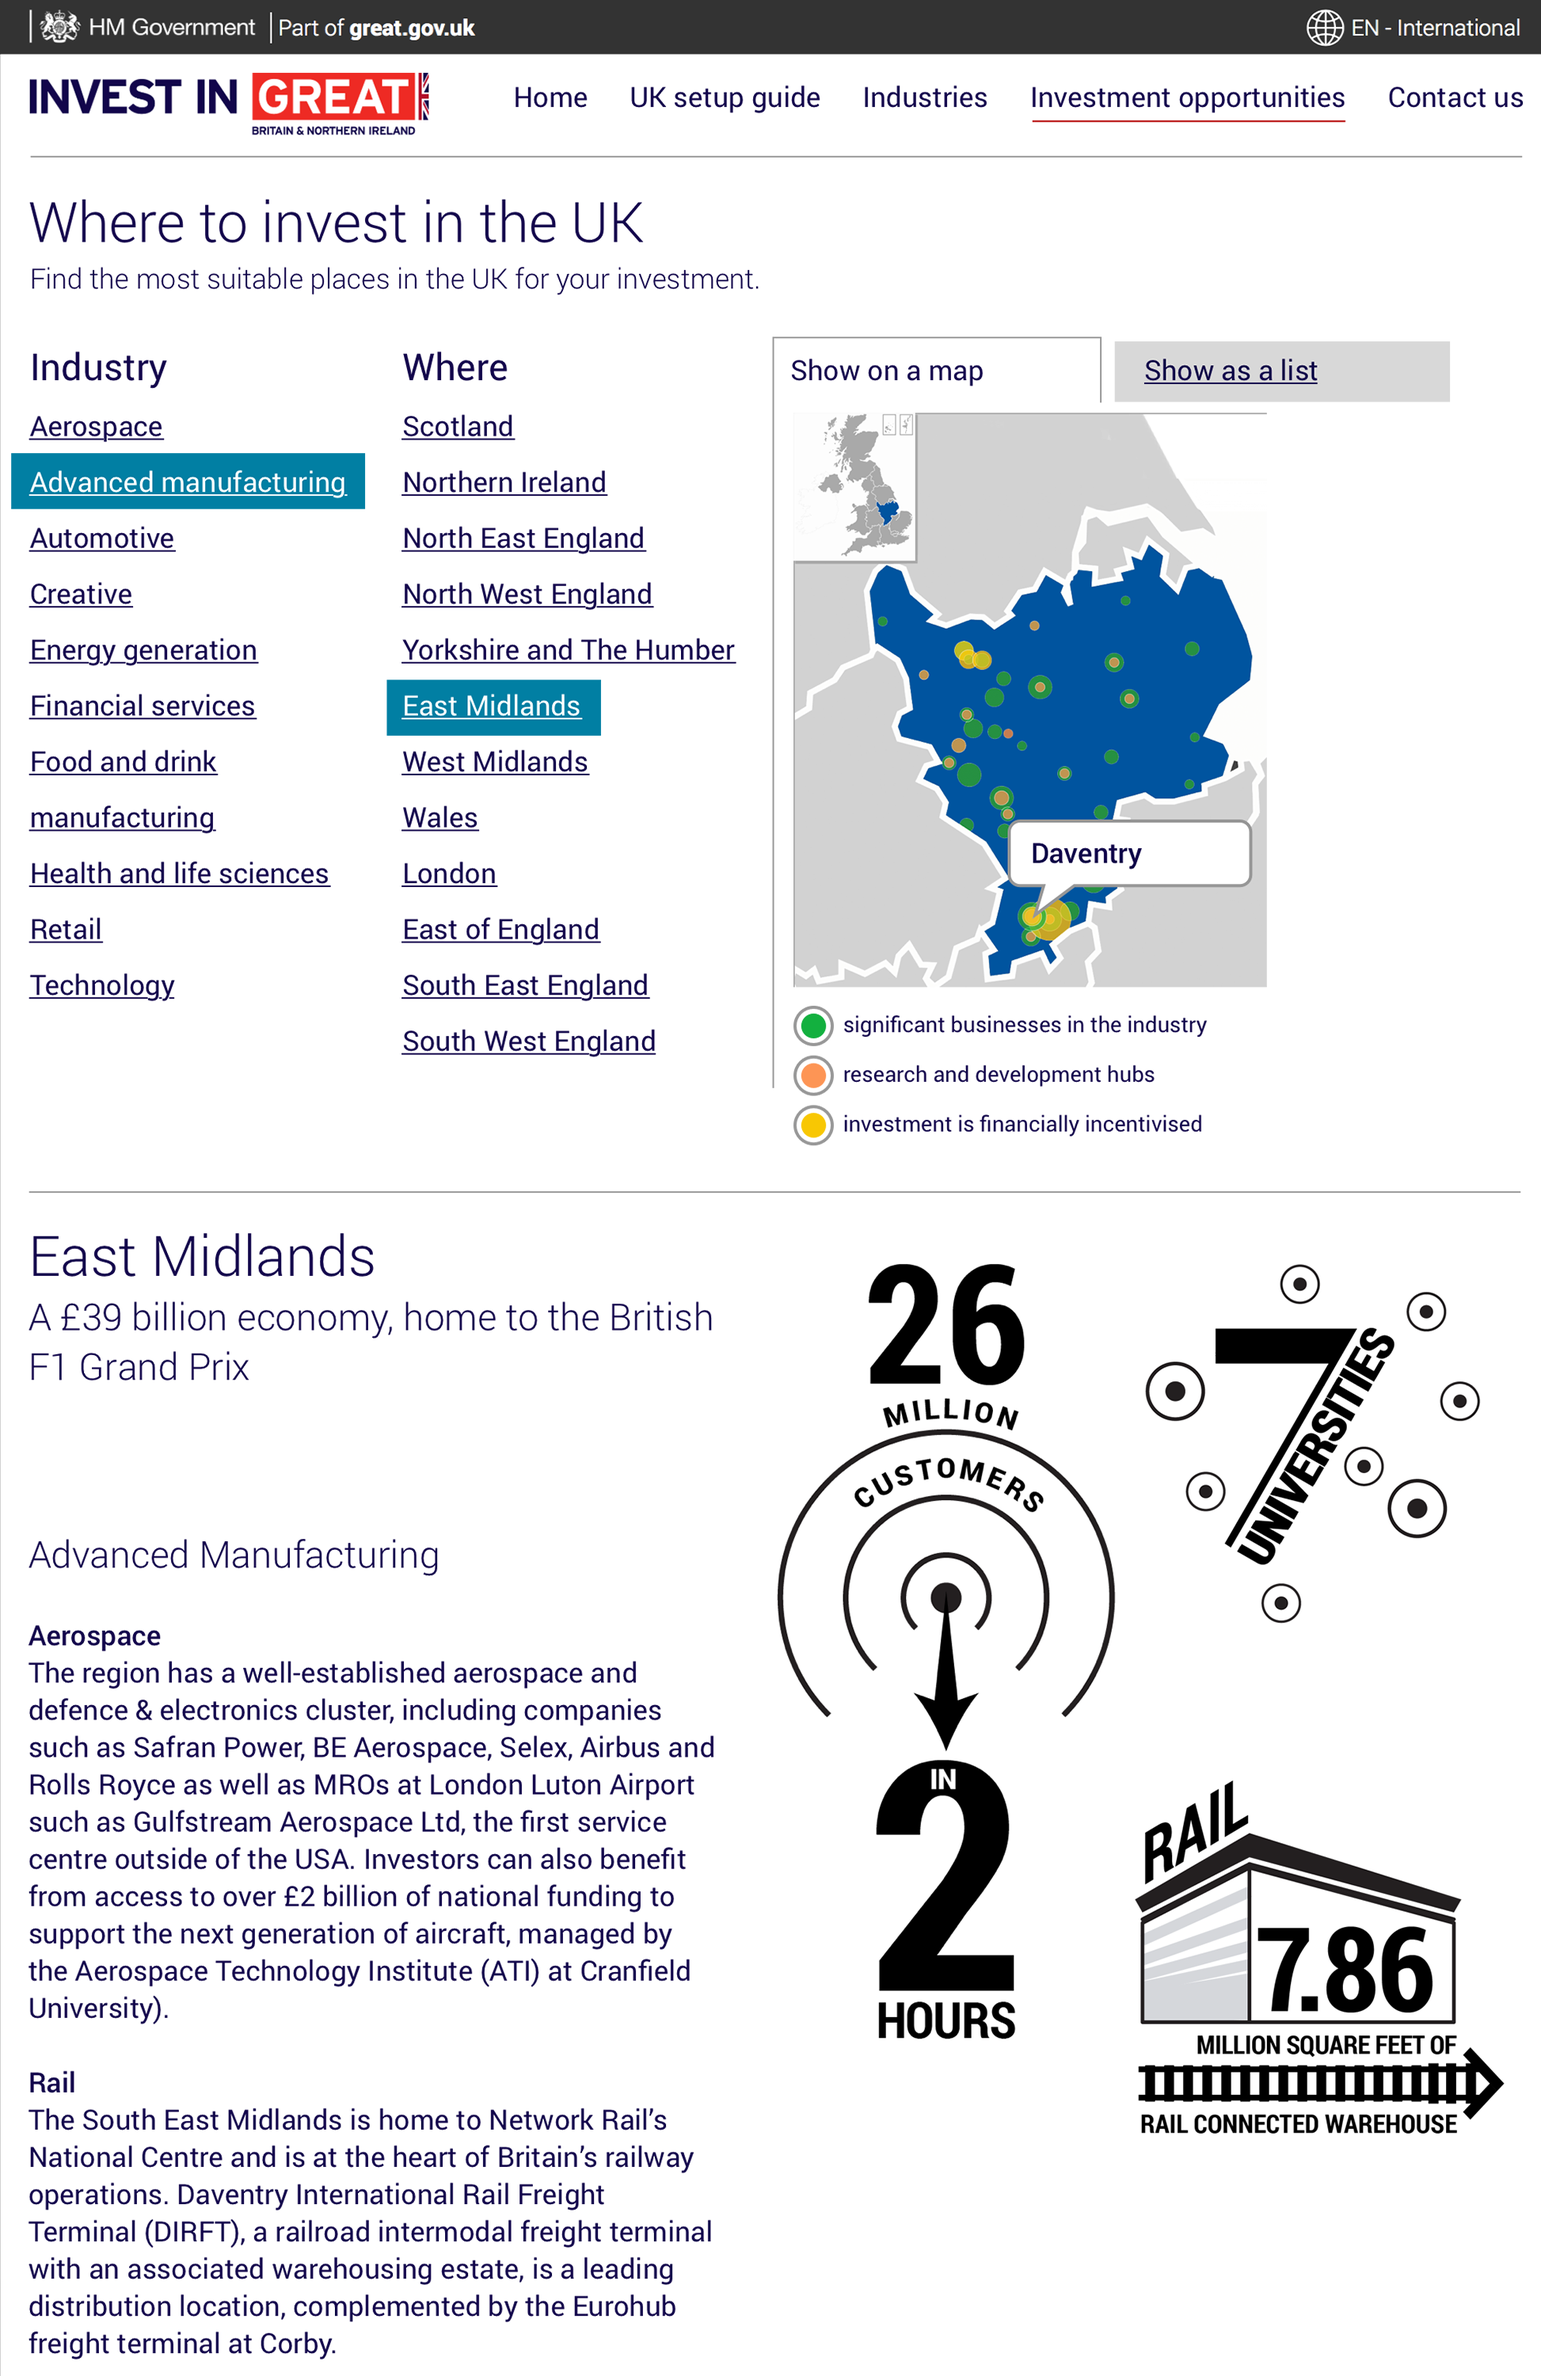
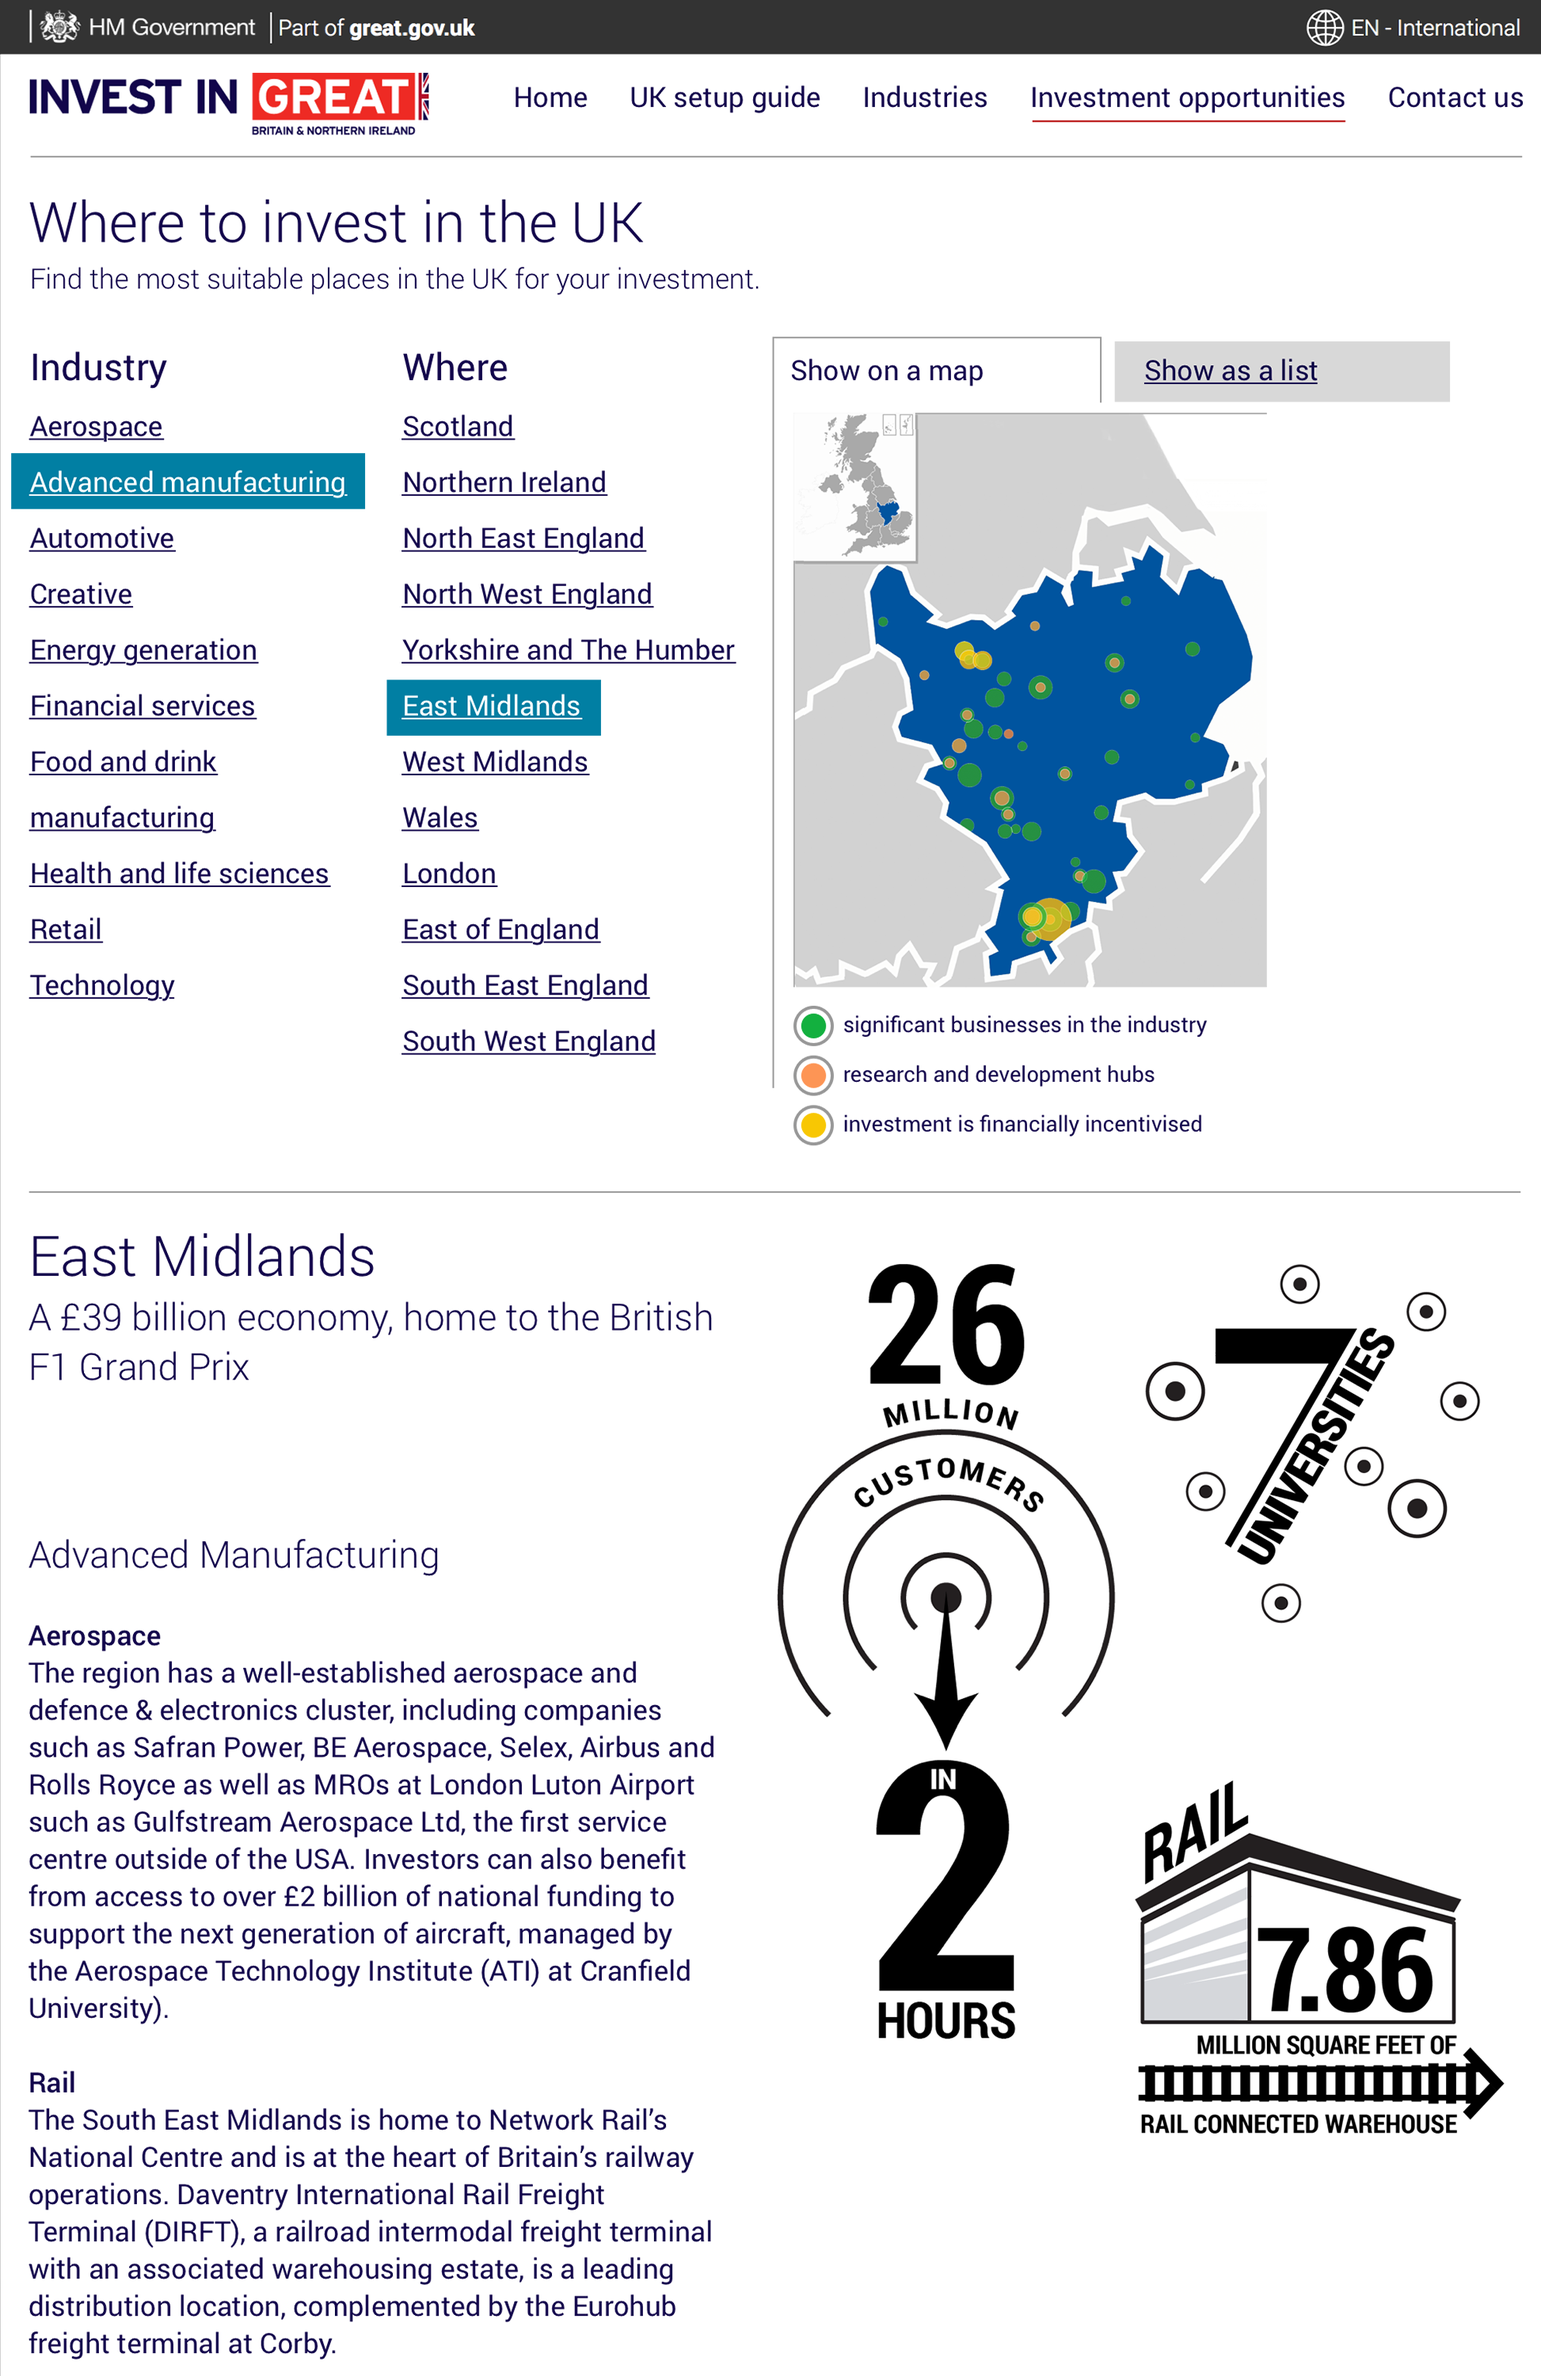
Adding the clickable image flow

Changed region(s): [[0.6475, 0.341, 0.8325, 0.403]]

diff --git a/app/views/iops-lists-5.html b/app/views/iops-lists-5.html
@@ -9,7 +9,7 @@
 
 <main>
 
-<a href="iops-lists-5"><img src="/public/images/iops-active-industry-region-blob.png" width="960px"></a>
+<a href="iops-lists-4"><img src="/public/images/iops-region-as-list.png" width="960px"></a>
 
 
 
